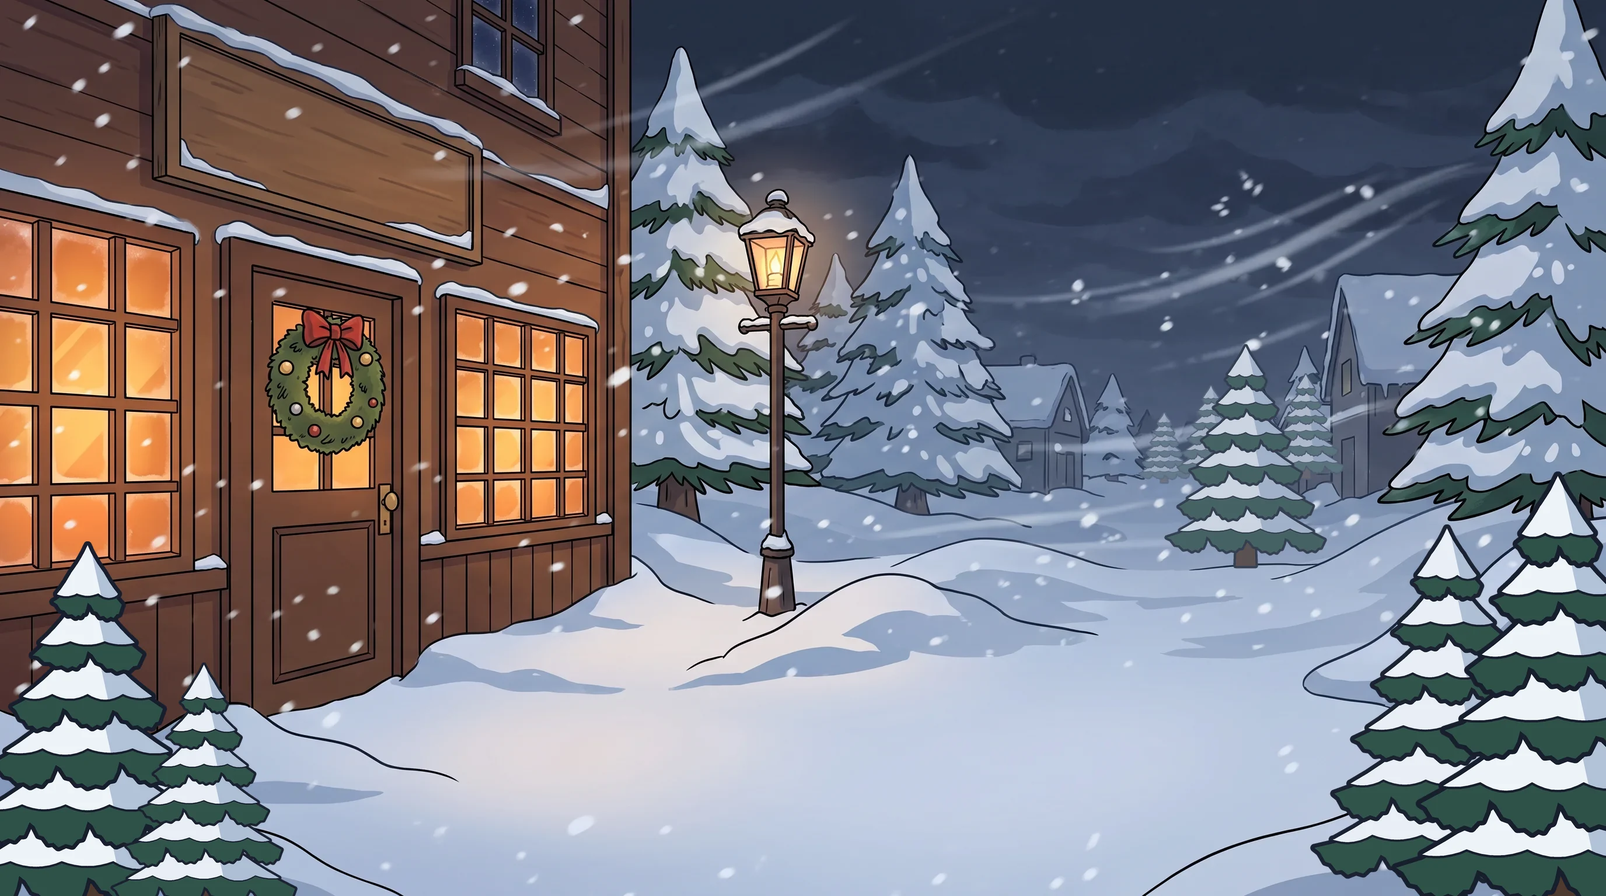
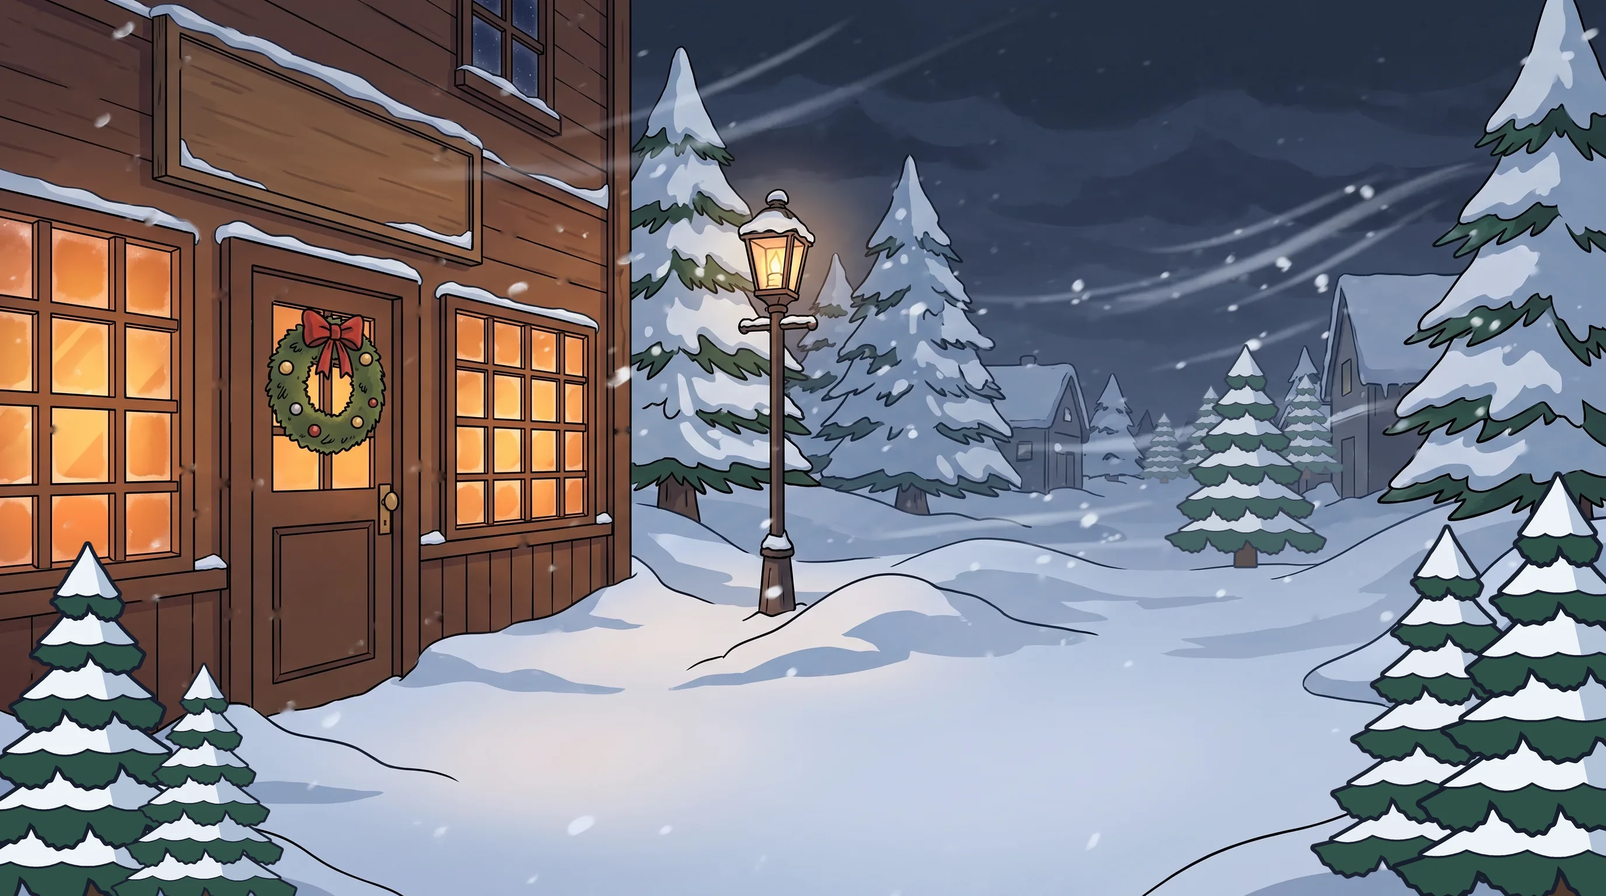
v1.4: info page cards and special symbols, same snow on every multiplier, still flakes gone from The Blizzard, its snow behind the board, no sunbeam
Claude-Session: https://claude.ai/code/session_01GBJJefLwsmZ7HRw7fkyhix

diff --git a/front/rules.js b/front/rules.js
@@ -81,7 +81,8 @@ const RULES = (() => {
   const x = v => "x" + (Number.isInteger(v) ? v : String(v));
 
   function tile(sym, social) {
-    if (sym === "M") return `<div class="ptile multi"><span>x5</span><small>MULTI</small></div>`;
+    // the Present Multi as it lands: the present with its value on it (owner, 2026-11-06: "update everything in the special symbols")
+    if (sym === "M") return `<div class="ptile mtile"><img src="assets/flat/M.webp" alt="${esc(T(NAMES.M, social))}" draggable="false"><span>x5</span></div>`;
     return `<img class="ptile" src="assets/flat/${sym}.webp" alt="${esc(T(NAMES[sym], social))}" draggable="false">`;
   }
 
@@ -118,10 +119,10 @@ const RULES = (() => {
 
 <section>
   <h4>${t("The features in short")}</h4>
-  <table class="guide">
+  <table class="guide icons">
     <tr><td><img class="ptile" src="assets/flat/M.webp" alt="" draggable="false"></td><td><b>${t("Present Multi")}</b> - ${t("bursts open after the wins are paid and leaves its multiplier on its own square and the 4 around it. Any win that lands on those squares is multiplied by them.")}</td></tr>
     <tr><td><img class="ptile" src="assets/flat/M.webp" alt="" draggable="false" style="box-shadow: 0 0 0 4px #fdfbf7, 0 0 0 7px #d61f2a; border-radius: 10px"></td><td><b>${t("Middle Present")}</b> - ${t("the middle square of the board has a candy-cane border. A present that bursts there puts its value on every square of the board, then every symbol goes and a whole fresh board drops onto the new multipliers.")}</td></tr>
-    <tr><td><div class="ptile multi"><span>x1.25</span><small>DROP</small></div></td><td><b>${t("Line Drops")}</b> - ${t("every symbol of a winning cluster turns into a multiplier on its square (x1.25, x1.5 or x2) once the cluster is paid, ready for the symbols that fall onto it.")}</td></tr>
+    <tr><td><div class="ptile droptile"><span>x1.25</span></div></td><td><b>${t("Line Drops")}</b> - ${t("every symbol of a winning cluster turns into a multiplier on its square (x1.25, x1.5 or x2) once the cluster is paid, ready for the symbols that fall onto it.")}</td></tr>
     <tr><td><img class="ptile" src="assets/flat/BS.webp" alt="" draggable="false"></td><td><b>${t("Jolly Scatter")}</b> - ${t("3 anywhere start Snowed In (10 free spins); 4 or more start Christmas Morning (12 free spins). In free spins every multiplier stays on the board until the bonus ends, and 3 or more Jolly Scatters add more spins.")}</td></tr>
     <tr><td><img class="ptile" src="assets/flat/ES.webp" alt="" draggable="false"></td><td><b>${t("Frost Scatter")}</b> - ${t("2 anywhere start The Blizzard (17 free spins), where every present is worth x20 or more. One with a Jolly Scatter win turns that bonus into The Blizzard.")}</td></tr>
     <tr><td><img class="ptile" src="assets/flat/H1.webp" alt="" draggable="false"></td><td><b>${t("Santa's Sack")}</b> - ${t("very rare. When it lands, every symbol on the board goes into the sack and every square gets +2 on its multiplier. Fresh symbols then drop onto the new multipliers.")}</td></tr>
@@ -133,12 +134,12 @@ const RULES = (() => {
 <section>
   <h4>${t("The bonuses")}</h4>
   <p class="fine">${t("Every bonus keeps every multiplier on the board until it ends, and 3 / 4 / 5 Jolly Scatters on a free spin add 5 / 7 / 10 spins. The presents in a bonus come from the reels. The Christmas Miracle is not a bonus: it is one spin on a board that is all x500 from the start.")}</p>
-  <table class="guide">
-    <tr><td><img class="ptile" src="assets/xmas/ui/card_red.webp" alt="" draggable="false"></td><td><b>${t("Snowed In")}</b> - ${t("3 Jolly Scatters: 10 free spins in the snowy bar. Every value on the board stays there for the whole bonus, building up spin after spin, and a present that bursts in the middle square sets off the whole board.")}</td></tr>
-    <tr><td><img class="ptile" src="assets/xmas/ui/morning.webp" alt="" draggable="false"></td><td><b>${t("Christmas Morning")}</b> - ${t("4 or more Jolly Scatters: 12 free spins by the fire in a cabin's living room, starting with 5 to 8 presents already open on the board (x5 to x250 each). Every present in this bonus is x5 or more, and every value stays for the whole bonus.")}</td></tr>
-    <tr><td><img class="ptile" src="assets/xmas/ui/card_ice.webp" alt="" draggable="false"></td><td><b>${t("The Blizzard")}</b> - ${t("2 Frost Scatters (17 free spins), or a Jolly Scatter win with a Frost Scatter (its own 10, 12 or 15 spins): free spins outside the bar in a night-time snowstorm. Every present is worth x20 or more - fewer presents than in the other bonuses, but every one big - and every value stays for the whole bonus.")}</td></tr>
-    <tr><td><img class="ptile" src="assets/xmas/ui/card_gold.webp" alt="" draggable="false"></td><td><b>${t("Christmas Miracle")}</b> - ${t("bought only, and not a bonus: ONE spin of the base game, and before its symbols drop every square of the board turns x500. Only winning clusters pay - each is multiplied by the sum of the squares it covers, so a cluster of 5 symbols is multiplied by x2,500, one of 6 by x3,000, and so on - and a spin that lands no cluster pays nothing. Presents that land add their value on top, every symbol of a winning cluster adds a small multiplier to its square, and the board keeps tumbling for as long as clusters keep paying. There are no free spins.")}</td></tr>
-  </table>
+  <div class="bonusrows">
+    <div class="brow"><img class="bart" src="assets/bonus/banner_bonus.webp" alt="" draggable="false"><div><b>${t("Snowed In")}</b><p>${t("3 Jolly Scatters: 10 free spins in the snowy bar. Every value on the board stays there for the whole bonus, building up spin after spin, and a present that bursts in the middle square sets off the whole board.")}</p></div></div>
+    <div class="brow"><img class="bart" src="assets/bonus/banner_christmas.webp" alt="" draggable="false"><div><b>${t("Christmas Morning")}</b><p>${t("4 or more Jolly Scatters: 12 free spins by the fire in a cabin's living room, starting with 5 to 8 presents already open on the board (x5 to x250 each). Every present in this bonus is x5 or more, and every value stays for the whole bonus.")}</p></div></div>
+    <div class="brow"><img class="bart" src="assets/bonus/banner_extremebonus.webp" alt="" draggable="false"><div><b>${t("The Blizzard")}</b><p>${t("2 Frost Scatters (17 free spins), or a Jolly Scatter win with a Frost Scatter (its own 10, 12 or 15 spins): free spins outside the bar in a night-time snowstorm. Every present is worth x20 or more - fewer presents than in the other bonuses, but every one big - and every value stays for the whole bonus.")}</p></div></div>
+    <div class="brow"><img class="bart" src="assets/bonus/banner_miracle.webp" alt="" draggable="false"><div><b>${t("Christmas Miracle")}</b><p>${t("Bought only, and not a bonus: ONE spin of the base game, and before its symbols drop every square of the board turns x500. Only winning clusters pay - each is multiplied by the sum of the squares it covers, so a cluster of 5 symbols is multiplied by x2,500, one of 6 by x3,000, and so on - and a spin that lands no cluster pays nothing. Presents that land add their value on top, every symbol of a winning cluster adds a small multiplier to its square, and the board keeps tumbling for as long as clusters keep paying. There are no free spins.")}</p></div></div>
+  </div>
 </section>
 
 <section>
@@ -173,21 +174,21 @@ const RULES = (() => {
 
 <section>
   <h4>${t("Special symbols")}</h4>
-  <div class="prow">${tile("M")}<div class="pname">${t("Multi — Multiplier")}<small>M</small></div>
+  <div class="prow">${tile("M")}<div class="pname">${t("Present Multi")}</div>
     <div class="ptext">${t(`Lands with a value from ${x(MULTI_MIN)} to ${x(MULTI_MAX)}, shown on the symbol. Every winning cluster on the board is paid first; only then does it blow out: the Multi and the four symbols sharing an edge with it are removed, each of those five cells keeps the Multi's value, and new symbols drop in on top. A winning cluster that covers one or more of those cells is multiplied by the SUM of the values on the cells it covers. When two Multis reach the same cell their values add. In the base game the values last for the rest of the spin, including every tumble; in a bonus they stay on the board for the whole feature. Jolly Scatter and the Frost Scatter are never removed by a Multi. The Multi does not form clusters and has no value of its own. In The Blizzard every Multi is worth ${x(20)} or more, and in Christmas Morning ${x(5)} or more.`)}</div></div>
-  <div class="prow"><img class="ptile" src="assets/flat/M.webp" alt="" draggable="false" style="box-shadow: 0 0 0 4px #fdfbf7, 0 0 0 7px #d61f2a; border-radius: 10px"><div class="pname">${t("Middle Present")}<small>M</small></div>
+  <div class="prow"><img class="ptile" src="assets/flat/M.webp" alt="" draggable="false" style="box-shadow: 0 0 0 4px #fdfbf7, 0 0 0 7px #d61f2a; border-radius: 10px"><div class="pname">${t("Middle Present")}</div>
     <div class="ptext">${t("The square in the middle of the board has a candy-cane border. A Multi that lands on it waits, like any Multi, until every winning cluster on the board has been paid. Then it bursts over the whole board instead of the 4 squares around it: its value is added to every square of the board (the squares holding a Jolly Scatter or Frost Scatter included), every symbol except the scatters is removed, and a whole fresh board drops in on top of the new multipliers. Play then carries on as usual: new clusters are paid through the values on their squares, and the values last as any Multi's do - for the rest of the spin in the base game, for the whole feature in a bonus. A Multi gets onto the middle square from the reels, or in the base game by dropping from Santa's sleigh. A Present Line and a Present Avalanche never land on it, and Christmas Morning's opened presents never set it off.")}</div></div>
-  <div class="prow">${tile("M")}<div class="pname">${t("Present Line and Present Avalanche")}<small>M</small></div>
+  <div class="prow"><div class="ptile linetile"><img src="assets/flat/M.webp" alt="" draggable="false"><img src="assets/flat/M.webp" alt="" draggable="false"><img src="assets/flat/M.webp" alt="" draggable="false"></div><div class="pname">${t("Present Line and Present Avalanche")}</div>
     <div class="ptext">${t("Base game only. Present Line: a straight line of 3 or 4 Multis can land together, along a row or down a column (never through the middle square); their blasts overlap, so the cells between them collect more than one value - about 1 base spin in 80. Present Avalanche: very rarely, every cell of the board except a Jolly Scatter, a Frost Scatter or the middle square becomes a Multi at once; they all blow out together and the whole board drops in on top of their values.")}</div></div>
   <div class="prow"><img class="ptile" src="assets/xmas/ui/sleigh.webp" alt="" draggable="false" style="object-fit: contain"><div class="pname">${t("Santa's Sleigh")}</div>
     <div class="ptext">${t("Base game only, about 1 spin in 130: Santa's sleigh flies across before the symbols drop and leaves 2 to 4 presents on the board. Each one is a Multi with its own value on a random square - never on a scatter and never on a symbol of a cluster that is about to pay - and blows out like any other Multi once the wins are paid. A present that drops onto the middle square bursts over the whole board (see Middle Present).")}</div></div>
-  <div class="prow"><img class="ptile" src="assets/flat/H1.webp" alt="Santa's Sack" draggable="false"><div class="pname">${t("Santa's Sack — Special")}<small>H1</small></div>
+  <div class="prow"><img class="ptile" src="assets/flat/H1.webp" alt="Santa's Sack" draggable="false"><div class="pname">${t("Santa's Sack")}</div>
     <div class="ptext">${t("Santa's Sack never comes from the reels: very rarely (about 1 base spin in 550, more often in free spins) it lands on one random square that holds no scatter or Multi. Once the board's wins are paid, the sack collects every symbol on the board (the scatters stay) and adds +2 to the multiplier of every square. The cleared board refills as in a tumble. In the base game the values last for the rest of the spin; in a bonus they stay for the whole feature. The sack does not form clusters and has no value of its own.")}</div></div>
-  <div class="prow"><div class="ptile multi"><span>x1.25</span><small>DROP</small></div><div class="pname">${t("Line Drops")}</div>
+  <div class="prow"><div class="ptile droptile"><span>x1.25</span></div><div class="pname">${t("Line Drops")}</div>
     <div class="ptext">${t("Every winning cluster, once paid, turns every one of its symbols into a multiplier: each of its squares gets a small value (x1.25, x1.5 or x2, at random). A line drop adds to whatever value that cell already holds and lasts exactly as a Multi's value does: for the rest of the spin in the base game, for the whole feature in a bonus. It never changes the win of the cluster that left it.")}</div></div>
-  <div class="prow"><img class="ptile" src="assets/flat/BS.webp" alt="Jolly Scatter" draggable="false"><div class="pname">${t("Jolly Scatter — Bonus Scatter")}<small>BS</small></div>
+  <div class="prow"><img class="ptile" src="assets/flat/BS.webp" alt="Jolly Scatter" draggable="false"><div class="pname">${t("Jolly Scatter")}<small>${t("starts Snowed In and Christmas Morning")}</small></div>
     <div class="ptext">${t("Appears anywhere. 3 Jolly Scatters on one spin of the base game award Snowed In (10 free spins); 4 or more award Christmas Morning (12 free spins). With a Frost Scatter on the same spin it becomes The Blizzard instead. Jolly Scatter does not form clusters and has no value of its own.")}</div></div>
-  <div class="prow"><img class="ptile" src="assets/flat/ES.webp" alt="The Frost Scatter" draggable="false"><div class="pname">${t("Frost Scatter — Blizzard Scatter")}<small>ES</small></div>
+  <div class="prow"><img class="ptile" src="assets/flat/ES.webp" alt="The Frost Scatter" draggable="false"><div class="pname">${t("Frost Scatter")}<small>${t("starts The Blizzard")}</small></div>
     <div class="ptext">${t("2 Frost Scatters anywhere on one spin award 17 free spins in The Blizzard directly. 1 Frost Scatter on the same spin as a Jolly Scatter trigger upgrades that trigger to The Blizzard, keeping its spin count (10, 12 or 15). The Frost Scatter does not form clusters and has no value of its own.")}</div></div>
 </section>
 

diff --git a/front/index.html b/front/index.html
@@ -1232,7 +1232,36 @@
   }
   html .infopanel table td:first-child { border-left: 1px solid var(--line); border-radius: 12px 0 0 12px; }
   html .infopanel table td:last-child { border-right: 1px solid var(--line); border-radius: 0 12px 12px 0; }
+  html .infopanel table.guide { table-layout: fixed; }   /* the words wrap inside the panel, never run off its edge */
+  html .infopanel table.guide td { overflow-wrap: break-word; }
   html .infopanel table.guide td:first-child { width: 22%; white-space: nowrap; }
+  html .infopanel table.guide.icons td:first-child { width: 80px; }   /* the features' pictures: just their own width */
+  /* the bonuses (owner, 2026-11-06: "update these"): each on its own card with the shop's picture of it beside its words */
+  html .infopanel .bonusrows { display: grid; gap: 10px; margin-top: 10px; }
+  html .infopanel .brow {
+    display: grid; grid-template-columns: minmax(130px, 30%) minmax(0, 1fr); gap: 14px; align-items: start; padding: 12px;
+    border: 1.5px solid var(--hud-line); border-radius: 14px; background: rgba(255, 255, 255, .04);
+  }
+  html .infopanel .brow .bart { width: 100%; height: auto; aspect-ratio: 16 / 9; object-fit: cover; border-radius: 10px; border: 2px solid var(--hud-line); }
+  html .infopanel .brow b { display: block; margin-bottom: 4px; font-family: var(--disp); font-weight: 400; font-size: 17px; letter-spacing: .02em; color: #ffd23c; }
+  html .infopanel .brow p { margin: 0; font-size: 14px; line-height: 1.5; }
+  @media (max-width: 640px) { html .infopanel .brow { grid-template-columns: 1fr; } html .infopanel .brow .bart { max-width: 260px; } }
+  /* the special symbols' pictures (owner, 2026-11-06): the present with its value, the snow square a line drop leaves
+     (the board's own), three presents in a row */
+  html .infopanel .ptile.mtile, html .infopanel .ptile.droptile, html .infopanel .ptile.linetile { position: relative; display: grid; place-items: center; overflow: hidden; }
+  html .infopanel .ptile.mtile > img { width: 100%; height: 100%; object-fit: contain; }
+  html .infopanel .ptile.mtile > span, html .infopanel .ptile.droptile > span {
+    position: absolute; left: 0; right: 0; bottom: 4%; text-align: center; font-family: var(--disp); font-size: 15px; line-height: 1;
+    color: #ffd23c; -webkit-text-stroke: 4px #160a05; paint-order: stroke fill;
+  }
+  html .infopanel .ptile.droptile { background: #f4f8fc url("assets/xmas/wfx/splat_0.webp") center / 170% 170% no-repeat; box-shadow: inset 0 0 0 2px #160a05; }
+  html .infopanel .ptile.droptile > span { position: static; color: #2e9e57; font-size: 14px; -webkit-text-stroke: 3px #1a1020; }
+  html .infopanel .ptile.linetile { display: grid; grid-template-columns: repeat(3, minmax(0, 1fr)); align-items: center; gap: 0; padding: 4px 1px; }
+  html .infopanel .ptile.linetile > img { width: 100% !important; height: auto !important; max-width: none; display: block; margin: 0; }
+  html .infopanel .pname small { display: block; }
+  /* an odd last symbol (the Wreath) sits in the middle of its row, not at the left (owner, 2026-11-06) */
+  html .infopanel .paytable > .prow:last-child:nth-child(odd) { grid-column: 1 / -1; justify-self: center; width: calc(50% - 5px); }
+  @media (max-width: 640px) { html .infopanel .paytable > .prow:last-child:nth-child(odd) { width: 100%; } }
   html .infopanel table.guide td:first-child b { color: #fff; }
   html .infopanel table.modes th, html .infopanel table.hist th {
     border: 0; padding: 2px 12px; font-size: 11.5px; font-weight: 600; letter-spacing: .14em; text-transform: uppercase;
@@ -1938,7 +1967,7 @@
        orange, to red for the big ones */
     font-family: "Grandstander", "Arial Rounded MT Bold", var(--num); font-weight: 700; letter-spacing: .01em;   /* a clean, round, bold face */
     color: var(--heat, #2e9e57); -webkit-text-stroke: calc(4px * var(--shrink, 1)) #1a1020; paint-order: stroke fill;
-    opacity: .7; text-shadow: 0 2px 0 rgba(0,0,0,.35), 0 0 6px rgba(255,255,255,.6);   /* Christmas lettering in its heat colour, on snow (owner, 2026-10-29) */
+    opacity: 1; text-shadow: 0 2px 0 rgba(0,0,0,.35), 0 0 6px rgba(255,255,255,.6);   /* Christmas lettering in its heat colour, on snow (owner, 2026-10-29) */
     transition: opacity .18s linear;
     isolation: isolate;   /* the box below sits under the figure, inside this slot */
   }
@@ -1956,19 +1985,16 @@
     background: #f4f8fc url("assets/xmas/wfx/splat_0.webp") center / 170% 170% no-repeat;
     box-shadow: inset 0 0 0 3px #160a05, inset 0 -6px 0 3px rgba(150, 186, 222, .45);
   }
-  .multlayer .gmult.sp1::before { background-image: url("assets/xmas/wfx/splat_1.webp"); }
-  .multlayer .gmult.sp2::before { background-image: url("assets/xmas/wfx/splat_2.webp"); }
-  .multlayer .gmult.sp3::before { background-image: url("assets/xmas/wfx/splat_3.webp"); }
-  .multlayer .gmult.sp4::before { background-image: url("assets/xmas/wfx/splat_4.webp"); }
-  .multlayer .gmult.sp5::before { background-image: url("assets/xmas/wfx/splat_5.webp"); }
-  .multlayer .gmult.spf::before { scale: -1 1; }
+  /* (owner, 2026-11-06: "make all the white backgrounds look the same on the multipliers") every square of snow is the
+     same one now - the one splat, never mirrored, never another (paintCell still sets .sp1-.sp5 / .spf: they do nothing) -
+     and it is as bright under a symbol as bare (see .gmult's opacity) */
   /* a tile straining and blowing over its value: the value keeps out of sight until the burst is over (tumbleBoard
      takes .hush off and pops it in with .bare once the pieces have gone) */
   .multlayer .gmult.hush { opacity: 0; }
   /* a value comes into the open (the tile over it has just come apart): it pops in - small
      and bright, past full size, and settles - rather than simply being there. The idle
      stretch is on scale/rotate, so this transform rides on top of it */
-  .multlayer .gmult.bare { opacity: .95; animation: gmultIn calc(.42s * var(--tempo, 1) / var(--multi-rate, 1)) cubic-bezier(.2,.9,.3,1.35); }
+  .multlayer .gmult.bare { opacity: 1; animation: gmultIn calc(.42s * var(--tempo, 1) / var(--multi-rate, 1)) cubic-bezier(.2,.9,.3,1.35); }
   /* the idle wander runs on transform (on the compositor), so the pop and the fade use scale */
   @keyframes gmultIn {
     0%   { scale: .3; filter: brightness(2.2); }
@@ -9123,7 +9149,8 @@ function startBonusFx(kind) {
   // the falling things are canvas particles (startSnowfall and the rest): the sleigh ride's snow is soft and a third as
   // thick, the blizzard twice as thick and driven across, with its wind; Christmas Morning has its confetti
   if (kind === "std") BONUS_FX.stops.push(startSnowfall(el, { share: 1 / 3, alpha: .8 }));
-  if (kind === "ext") { BONUS_FX.stops.push(startSnowfall(el, { style: "storm", share: 1.6, alpha: .8 }), startWind(el)); }
+  // (owner, 2026-11-06: "on the blizzard dont let the snow go infront of the slot game") The Blizzard's storm and its wind
+  // blow only in the scene behind the board (bonusScene), never over the board
   if (kind === "xmas") BONUS_FX.stops.push(startConfetti(el));
   // (owner, 2026-10-31: no sleigh across the screen as the bonus comes in - it flashed past behind the intro; the sleigh
   // still crosses on every free spin with its presents, and on a retrigger)
@@ -9136,7 +9163,7 @@ function startBonusFx(kind) {
 //         pyjamas and robe waving with a steaming mug of cocoa, Mrs. Claus holding up the scarf she has just unwrapped.
 // The scene sits over the bar's picture, under the board.
 const BONUS_SCENES = {
-  ext: { bg: "blizzard_bg", snow: 2, cast: false },   // (owner, 2026-11-06: "remove mr and mrs claus from the blizzard bonus")
+  ext: { bg: "blizzard_bg", snow: 3, cast: false },   // (owner, 2026-11-06: "remove mr and mrs claus from the blizzard bonus")
   xmas: { bg: "morning_bg", left: "mrs_morning", right: "santa_morning", snow: 0 },
 };
 function bonusScene(kind) {
@@ -9147,7 +9174,7 @@ function bonusScene(kind) {
   const cfg = BONUS_SCENES[kind]; if (!cfg) return;
   const sc = document.createElement("div"); sc.id = "bonusscene"; sc.className = "bscene " + kind; sc.setAttribute("aria-hidden", "true");
   sc.innerHTML = `<div class="bzpic" style="background-image: linear-gradient(rgba(10,16,34,.08), rgba(10,16,34,.3)), url('assets/xmas/ui/${cfg.bg}.webp')"></div>` +
-    (kind === "xmas" ? `<i class="fireglow"></i><i class="sunbeam"></i>` : "") +
+    (kind === "xmas" ? `<i class="fireglow"></i>` : "") +   // (owner, 2026-11-06: the big sunbeam across the room is gone)
     (kind === "ext" ? `<i class="aurora a1"></i><i class="aurora a2"></i>` : "") + `<div class="bzsnow"></div>` +
     (kind === "xmas"
       // Christmas Morning: the cabin's living room, sun through the frosty windows and snow falling outside them
@@ -9161,6 +9188,7 @@ function bonusScene(kind) {
     "";   // (owner, 2026-11-06: "remove all the bushes in the corners" - the frost frame round The Blizzard, .frostedge, is gone)
   $("bgwall").after(sc);
   if (!REDUCED_MOTION) sc._snow = cfg.snow ? [startSnowfall(sc.querySelector(".bzsnow"), { style: kind === "ext" ? "storm" : "blizzard", share: cfg.snow })] : [];
+  if (!REDUCED_MOTION && kind === "ext") sc._snow.push(startWind(sc.querySelector(".bzsnow")));   // the wind's streaks, behind the board too
   if (!REDUCED_MOTION && kind === "xmas") sc._snow.push(startPaneSnow(sc.querySelector(".bgfit")));
   // the pair beside the board, never over it: on a screen narrower than 16:9 (a 16:10 laptop) the board takes more of the
   // width, so each is made smaller to fit the room beside it, and moved toward the edge if it is still too big

diff --git a/CHANGELOG.md b/CHANGELOG.md
@@ -36,8 +36,13 @@ simpler bonuses.
   street.
 - At the bar, the elf and the spilled glass of milk are gone, and Santa sleeps on (he no longer looks up).
 
-**Info page** - rewritten against the game as it is now: the new paytable, the three bonuses and how each starts, the
-shop, and nothing that is no longer in the game.
+- Every multiplier's snow square is the same one, as bright under a symbol as bare.
+- The Blizzard's background has no painted, standing-still snowflakes, and its storm stays behind the board.
+- Christmas Morning has no big sunbeam across the room.
+
+**Info page** - rewritten against the game as it is now: the new paytable (the Wreath centred in its last row), the
+three bonuses on cards with their shop pictures and how each starts, the special symbols with the game's own pictures,
+the shop, and nothing that is no longer in the game.
 
 ## v1.3 - Mr. & Mrs. Claus (2026-11-05)
 
